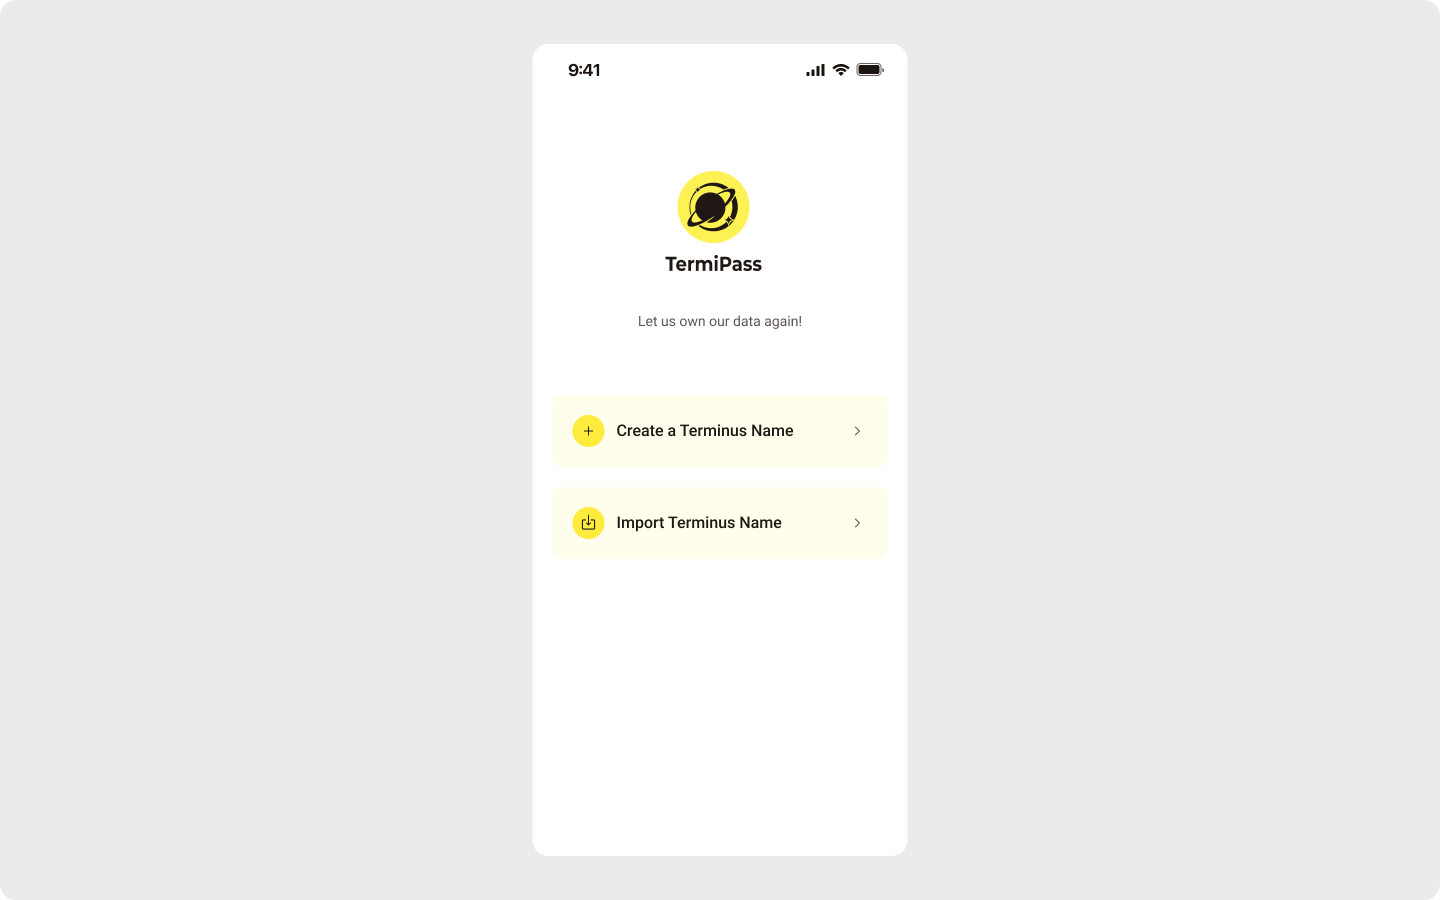
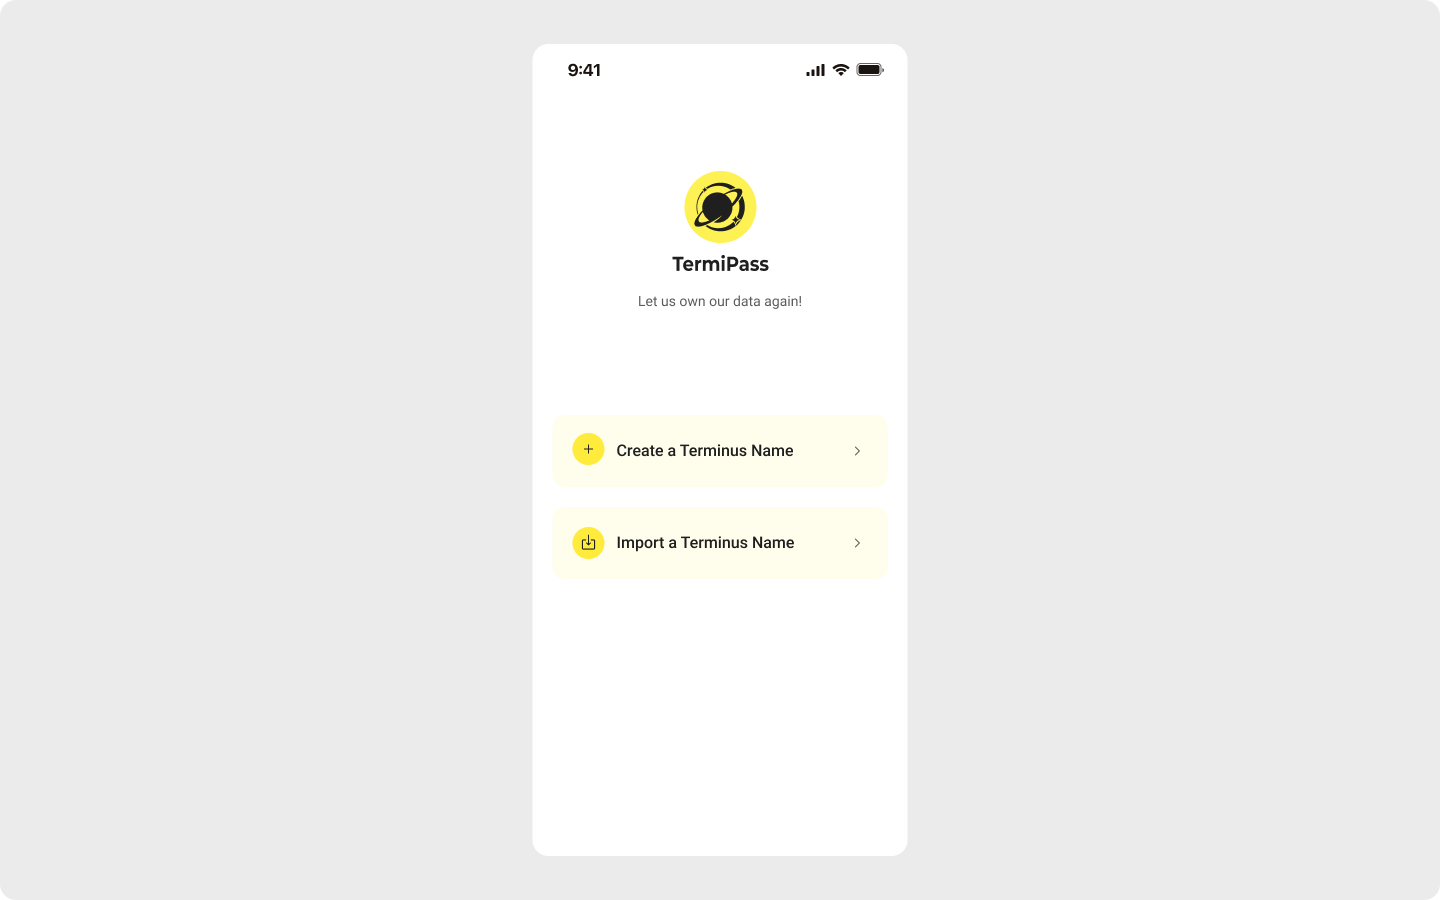
update images and fix link

Changed region(s): [[0.4375, 0.1867, 0.5625, 0.3733], [0.375, 0.4667, 0.5625, 0.5289], [0.375, 0.56, 0.5625, 0.6222]]

diff --git a/docs/overview/terminus/terminus-name.md b/docs/overview/terminus/terminus-name.md
@@ -36,7 +36,7 @@ Refer to [Create a Terminus Name](../../how-to/termipass/account/#create-a-termi
 A Decentralized Identifier (DID) is a unique, cryptographically verifiable identifier that doesn't rely on any centralized authority. While DIDs solve the issue of identity in a decentralized network, they are typically difficult for humans to remember or use in daily situations. 
 
 Terminus Name acts as a human-readable layer on top of DIDs. It provides a familiar, easy-to-remember format similar to email addresses, while still leveraging the power and security of DIDs.
-Each Terminus Name is bound to a DID. When a user creates an account using Terminus, a DID is created at the same time. Learn more about their relationship in [Stage of Terminus Account](../../how-to/termipass/account/#stage-of-account).
+Each Terminus Name is bound to a DID. When a user creates an account using Terminus, a DID is created at the same time. Learn more about their relationship in [Stage of Terminus Account](../../how-to/termipass/account/#understand-the-stage-of-account).
 
 
 ## Learn more
